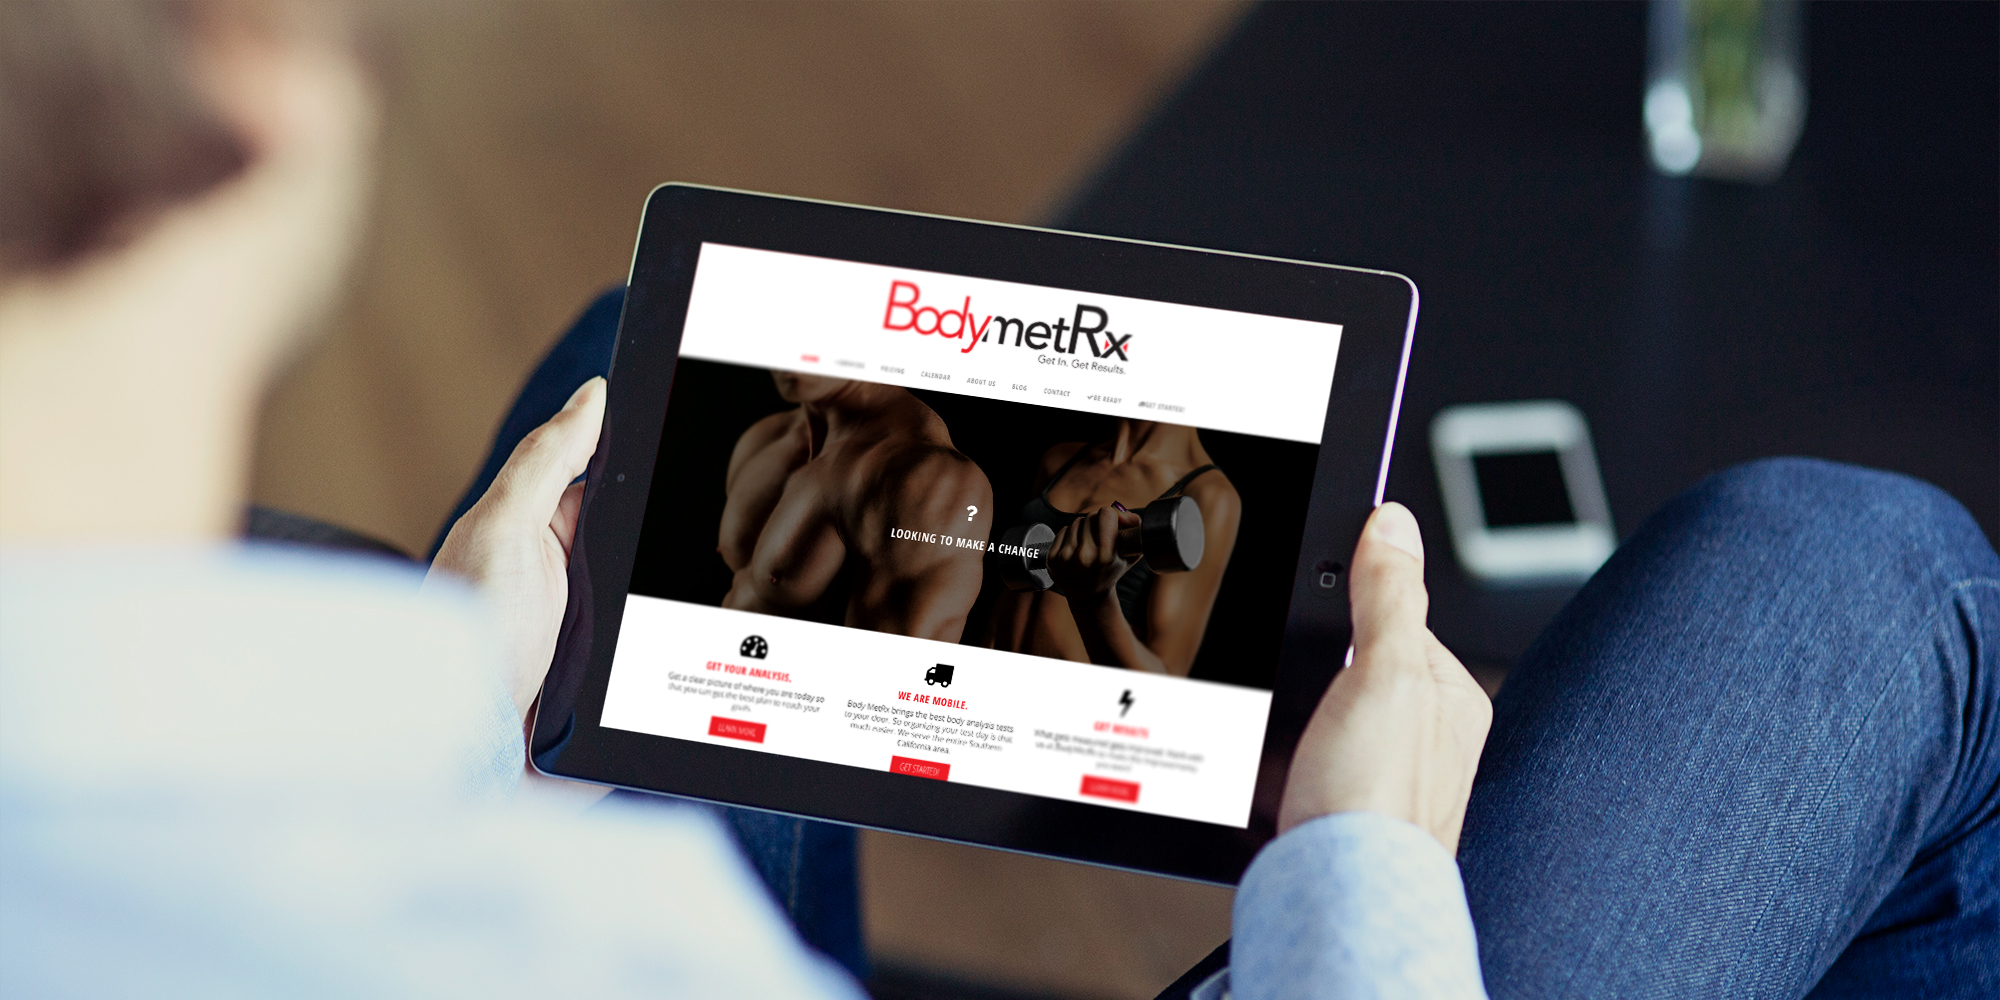
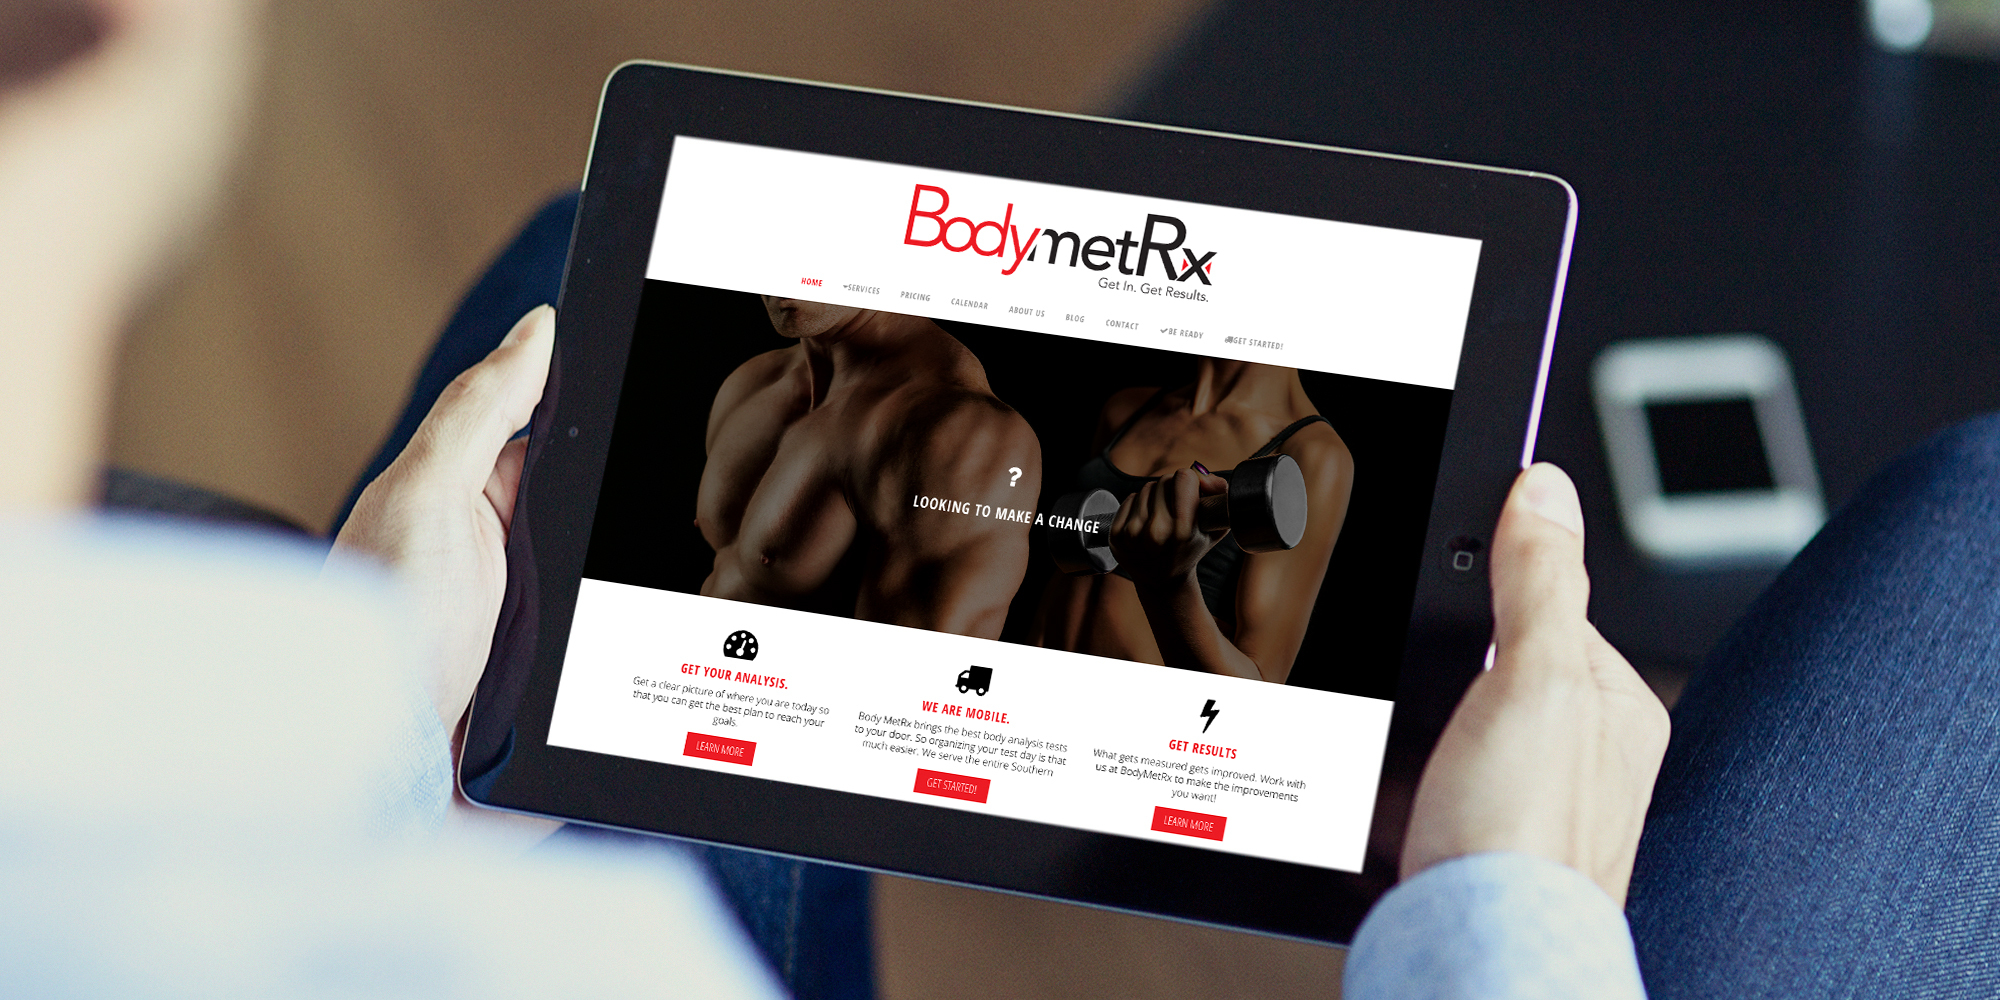
updated homepage and nixed calcite

diff --git a/alansangma.com/css/style.css b/alansangma.com/css/style.css
@@ -6,7 +6,7 @@ body {
     padding: 0 0 100px;
     margin: 0;
     /*background-size: 100%;*/
-    background: url('../images/poly-bg-00-30-opacity.png') center -100px repeat-y;
+    background: url('../images/poly-bg-00-30-opacity.png') center -200px no-repeat;
 }
 .homepage {
   background: url('../images/geo-background.jpg') center top no-repeat;
@@ -138,14 +138,18 @@ hr {
     /*background-color:rgba(255,255,255, 0.5);*/
     color: #000;
 }
-
+.navbar-default .navbar-nav > .active > a {
+  background-color:rgba(255,255,255, 0.25);
+  -webkit-box-shadow: 0 0px 2px rgba(0,0,0,0.25);
+          box-shadow: 0 0px 2px rgba(0,0,0,0.25);
+}
 
 /*.navbar-default .navbar-brand:hover,
 .navbar-default .navbar-brand:focus,*/
 .navbar-default .navbar-nav > li > a:hover,
 .navbar-default .navbar-nav > li > a:focus {
     background-color: transparent;
-    color: #69dcff;
+    color: #000;
     background-image: none;
 }
 

diff --git a/alansangma.com/includes/nav.html b/alansangma.com/includes/nav.html
@@ -1,6 +1,6 @@
 
-        <!-- <nav class="navbar navbar-default navbar-fixed-top" data-top-top="background-color:rgba(255,255,255,0);box-shadow:0 1px 2px rgba(0,0,0,0);" data-top-bottom="background-color:rgba(255,255,255,0.9);box-shadow:0 1px 2px rgba(0,0,0,0.25);"> -->
-        <nav class="navbar navbar-default navbar-fixed-top">
+        <nav class="navbar navbar-default navbar-fixed-top" data-top-top="background-color:rgba(255,255,255,0);box-shadow:0 1px 2px rgba(0,0,0,0);" data-top-bottom="background-color:rgba(255,255,255,0.9);box-shadow:0 1px 2px rgba(0,0,0,0.25);">
+        <!-- <nav class="navbar navbar-default navbar-fixed-top"> -->
             <div class="container-fluid">
                 <div class="navbar-header">
                     <button type="button" class="navbar-toggle collapsed" data-toggle="collapse" data-target="#navbar-collapse-1" aria-expanded="false">

diff --git a/alansangma.com/js/portfolio.js b/alansangma.com/js/portfolio.js
@@ -39,14 +39,14 @@ jQuery(document).ready(function($) {
             //jQuery('.navbar-brand').attr('data--200-top', "margin-left:-75px;");
             //jQuery('.navbar-brand').attr('data--250-top', "margin-left:-25px;");
         }
-       // jQuery('body').animate({scrollTop: 0}, 25, function(){
+       jQuery('body').animate({scrollTop: 0}, 25, function(){
           //  console.log('*');
             sklr = skrollr.init({
                 smoothScrollling: true,
                 forceHeight: true,
                 edgeStrategy: 'ease'
             }); 
-       // });
+       });
     });
 
 

diff --git a/alansangma.com/iezq.html b/alansangma.com/iezq.html
@@ -3,8 +3,8 @@
 
 <head>
     <title>Alan Sangma : UI Designer - Inland Empire Zine Quest - Logo</title>
-    <!-- <link rel="stylesheet" type="text/css" href="css/bootstrap.min.css"> -->
-    <link rel="stylesheet" type="text/css" href="css/calcite-bootstrap.css">
+    <link rel="stylesheet" type="text/css" href="css/bootstrap.min.css">
+    <!-- <link rel="stylesheet" type="text/css" href="css/calcite-bootstrap.css"> -->
     <!-- <link rel="stylesheet" type="text/css" href="css/all.css"> -->
     <link rel="stylesheet" type="text/css" href="css/style.css">
 </head>

diff --git a/alansangma.com/production-associates.html b/alansangma.com/production-associates.html
@@ -3,8 +3,8 @@
 
 <head>
     <title>Alan Sangma : UI Designer - Production Associates - Logos</title>
-    <!-- <link rel="stylesheet" type="text/css" href="css/bootstrap.min.css"> -->
-    <link rel="stylesheet" type="text/css" href="css/calcite-bootstrap.css">
+    <link rel="stylesheet" type="text/css" href="css/bootstrap.min.css">
+    <!-- <link rel="stylesheet" type="text/css" href="css/calcite-bootstrap.css"> -->
     <!-- <link rel="stylesheet" type="text/css" href="css/all.css"> -->
     <link rel="stylesheet" type="text/css" href="css/style.css">
 </head>

diff --git a/alansangma.com/popups.html b/alansangma.com/popups.html
@@ -3,8 +3,8 @@
 
 <head>
     <title>Alan Sangma : UI Designer - Responsive Popup Designs</title>
-    <!-- <link rel="stylesheet" type="text/css" href="css/bootstrap.min.css"> -->
-    <link rel="stylesheet" type="text/css" href="css/calcite-bootstrap.css">
+    <link rel="stylesheet" type="text/css" href="css/bootstrap.min.css">
+    <!-- <link rel="stylesheet" type="text/css" href="css/calcite-bootstrap.css"> -->
     <!-- <link rel="stylesheet" type="text/css" href="css/all.css"> -->
     <link rel="stylesheet" type="text/css" href="css/style.css">
 </head>

diff --git a/alansangma.com/block-tees.html b/alansangma.com/block-tees.html
@@ -3,8 +3,8 @@
 
 <head>
     <title>Alan Sangma : UI Designer - Block CrossFit T-Shirts</title>
-    <!-- <link rel="stylesheet" type="text/css" href="css/bootstrap.min.css"> -->
-    <link rel="stylesheet" type="text/css" href="css/calcite-bootstrap.css">
+    <link rel="stylesheet" type="text/css" href="css/bootstrap.min.css">
+    <!-- <link rel="stylesheet" type="text/css" href="css/calcite-bootstrap.css"> -->
     <!-- <link rel="stylesheet" type="text/css" href="css/all.css"> -->
     <link rel="stylesheet" type="text/css" href="css/style.css">
 </head>

diff --git a/alansangma.com/filtering.html b/alansangma.com/filtering.html
@@ -3,8 +3,8 @@
 
 <head>
     <title>Alan Sangma : UI Designer - App Template Filtering</title>
-    <!-- <link rel="stylesheet" type="text/css" href="css/bootstrap.min.css"> -->
-    <link rel="stylesheet" type="text/css" href="css/calcite-bootstrap.css">
+    <link rel="stylesheet" type="text/css" href="css/bootstrap.min.css">
+    <!-- <link rel="stylesheet" type="text/css" href="css/calcite-bootstrap.css"> -->
     <!-- <link rel="stylesheet" type="text/css" href="css/all.css"> -->
     <link rel="stylesheet" type="text/css" href="css/style.css">
 </head>

diff --git a/alansangma.com/social.html b/alansangma.com/social.html
@@ -3,8 +3,8 @@
 
 <head>
     <title>Alan Sangma : UI Designer - Social Activity Stream</title>
-    <!-- <link rel="stylesheet" type="text/css" href="css/bootstrap.min.css"> -->
-    <link rel="stylesheet" type="text/css" href="css/calcite-bootstrap.css">
+    <link rel="stylesheet" type="text/css" href="css/bootstrap.min.css">
+    <!-- <link rel="stylesheet" type="text/css" href="css/calcite-bootstrap.css"> -->
     <!-- <link rel="stylesheet" type="text/css" href="css/all.css"> -->
     <link rel="stylesheet" type="text/css" href="css/style.css">
 </head>

diff --git a/alansangma.com/body-metrx.html b/alansangma.com/body-metrx.html
@@ -3,8 +3,8 @@
 
 <head>
     <title>Alan Sangma : UI Designer - Body MetRx - Website</title>
-    <!-- <link rel="stylesheet" type="text/css" href="css/bootstrap.min.css"> -->
-    <link rel="stylesheet" type="text/css" href="css/calcite-bootstrap.css">
+    <link rel="stylesheet" type="text/css" href="css/bootstrap.min.css">
+    <!-- <link rel="stylesheet" type="text/css" href="css/calcite-bootstrap.css"> -->
     <!-- <link rel="stylesheet" type="text/css" href="css/all.css"> -->
     <link rel="stylesheet" type="text/css" href="css/style.css">
 </head>

diff --git a/alansangma.com/widgets.html b/alansangma.com/widgets.html
@@ -3,8 +3,8 @@
 
 <head>
     <title>Alan Sangma : UI Designer - Calcite Map Widgets</title>
-    <!-- <link rel="stylesheet" type="text/css" href="css/bootstrap.min.css"> -->
-    <link rel="stylesheet" type="text/css" href="css/calcite-bootstrap.css">
+    <link rel="stylesheet" type="text/css" href="css/bootstrap.min.css">
+    <!-- <link rel="stylesheet" type="text/css" href="css/calcite-bootstrap.css"> -->
     <!-- <link rel="stylesheet" type="text/css" href="css/all.css"> -->
     <link rel="stylesheet" type="text/css" href="css/style.css">
 </head>
